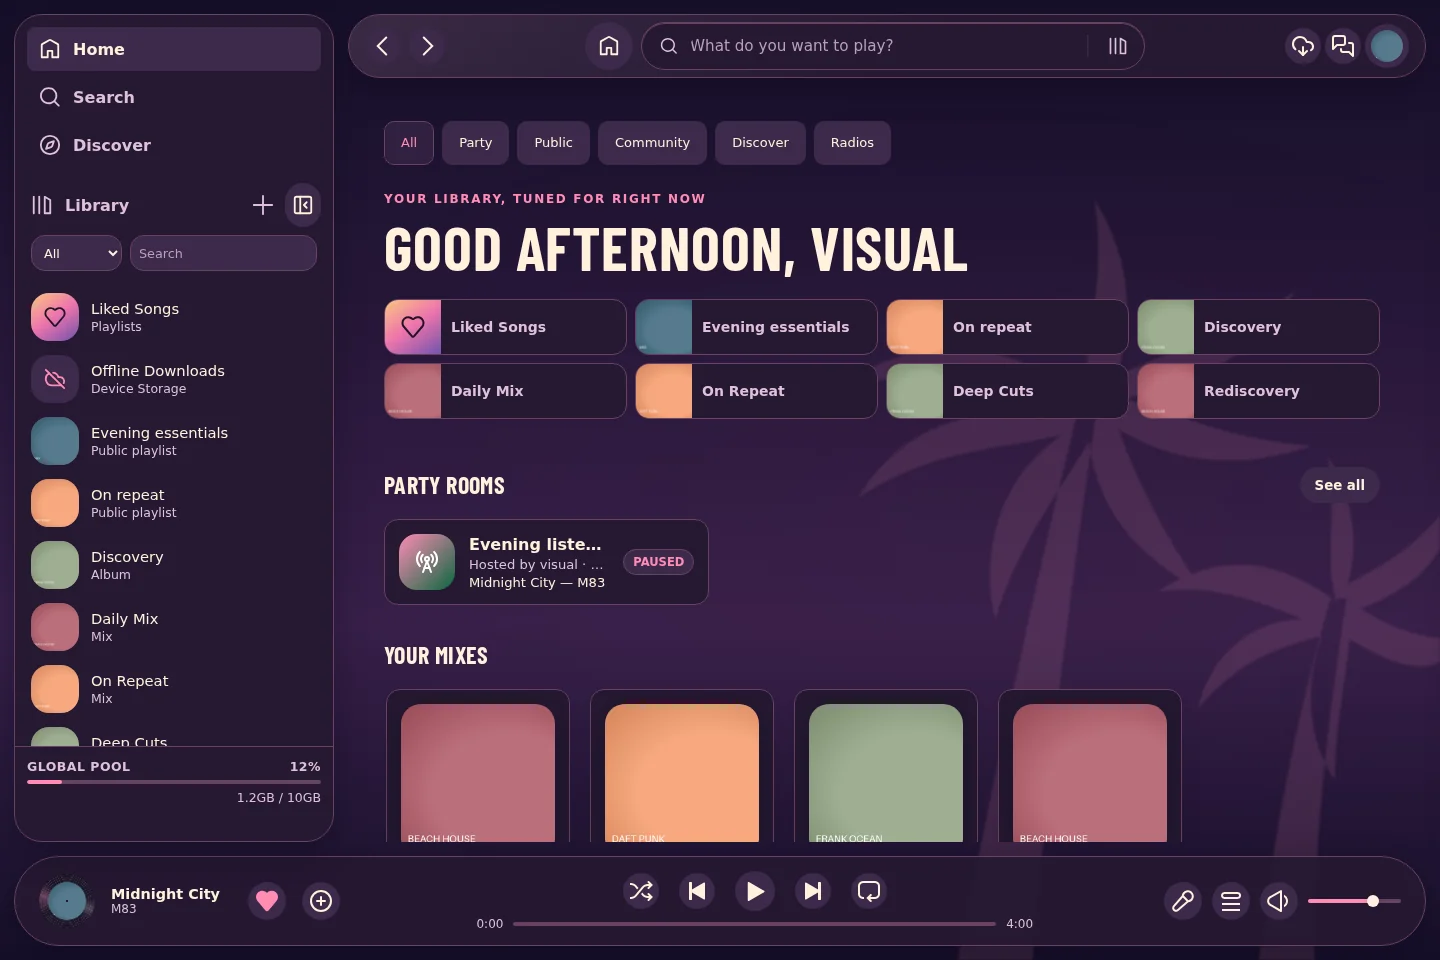
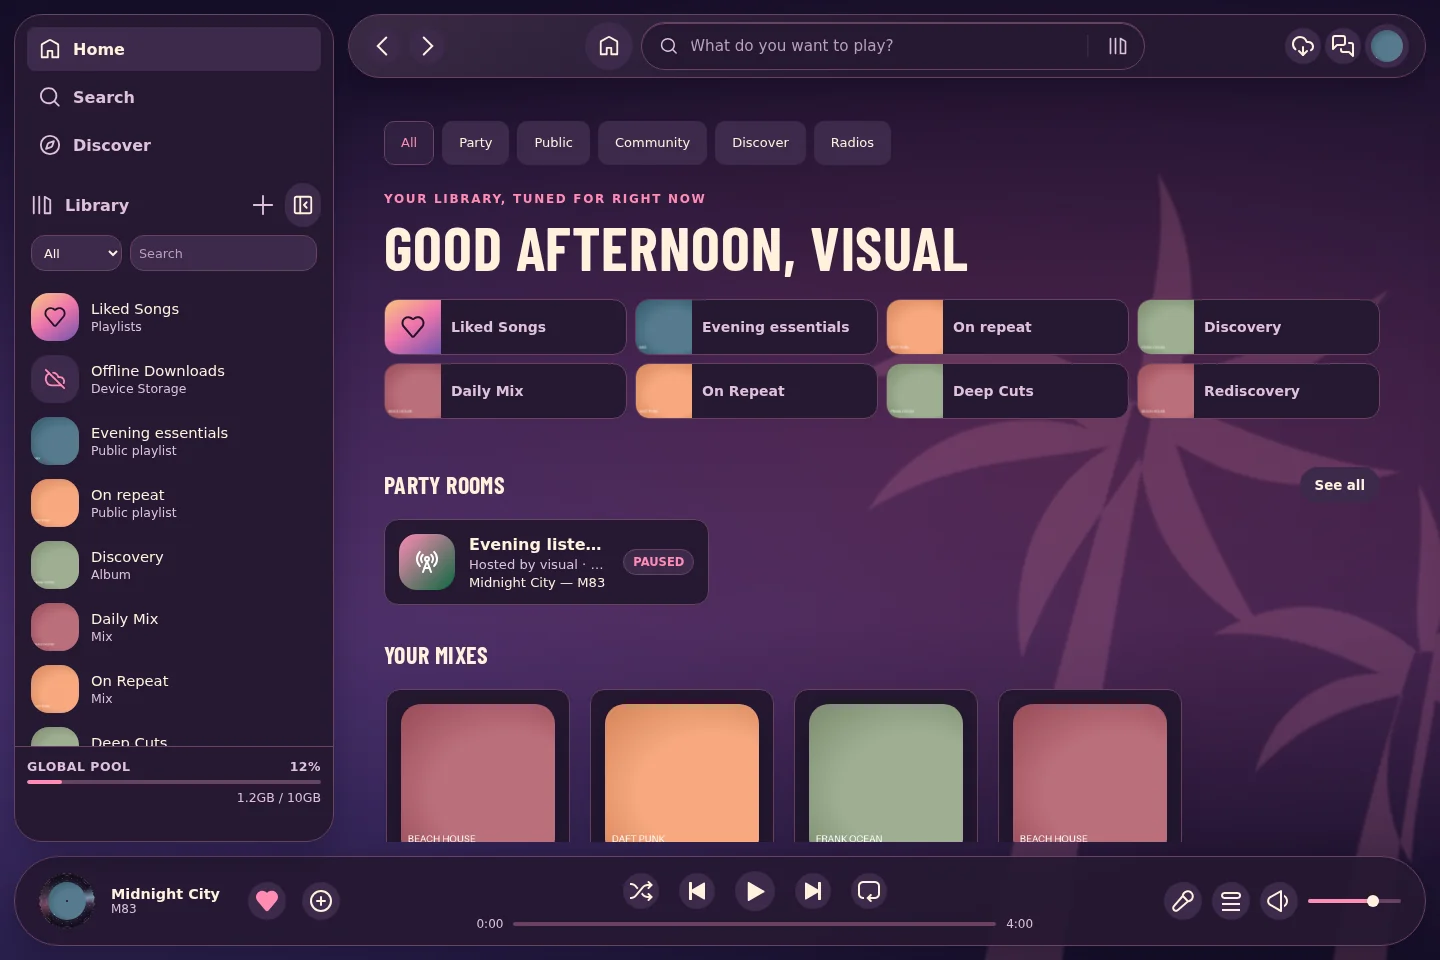
Show the refined Vice player and WebView panels in the gallery

diff --git a/docs/SCREENSHOTS.md b/docs/SCREENSHOTS.md
@@ -2,7 +2,7 @@
 
 [Project overview](../README.md) · [User guide](USER-GUIDE.md) · [Themes](THEMES.md) · [Android](ANDROID.md) · [Downloads](https://github.com/sPROFFEs/Aoede/releases/latest)
 
-Explore the **Aoede 1.3.1** web interface and native Android client. The Android captures use **Android 1.2.12 (42)**. Expand a feature group and click any image to open it at full resolution.
+Explore the **Aoede 1.3.1** web interface and native Android client. The Android captures use **Android 1.2.12**. The Vice Home and player previews show the refinements in **Android 1.2.13**. Expand a feature group and click any image to open it at full resolution.
 
 These are captures of the real application interfaces, with fictional accounts, demonstration artwork, sample track metadata and synthetic service responses. They are not design mockups or screenshots of a production server. Example provider connections, listening totals and host metrics illustrate their screens; they do not describe a live deployment.
 
@@ -89,6 +89,23 @@ Vice is the fourth account theme, inspired by the [official GTA VI visual direct
     <td align="center"><a href="images/screenshots/desktop-vice-active-playlist.webp"><img src="images/screenshots/desktop-vice-active-playlist.webp" alt="Vice playlist with Midnight City highlighted and a vinyl record in the desktop player" width="100%"></a></td>
     <td align="center"><a href="images/screenshots/mobile-vice-active-playlist.webp"><img src="images/screenshots/mobile-vice-active-playlist.webp" alt="Vice playlist with active track and vinyl in the mobile player" width="100%"></a></td>
   </tr>
+</table>
+
+</details>
+
+<details>
+<summary><strong>Lyrics, downloads and deletion requests</strong></summary>
+
+The fullscreen lyrics follow the scene behind the player. Download and request rows sit on a shared rounded sheet.
+
+<table>
+<tr><th width="25%">Lyrics</th><th width="25%">Downloads</th><th width="25%">Deletion request</th><th width="25%">Request responses</th></tr>
+<tr>
+  <td><a href="images/screenshots/mobile-vice-lyrics.webp"><img src="images/screenshots/mobile-vice-lyrics.webp" alt="Mobile web · Vice · Lyrics" width="100%"></a></td>
+  <td><a href="images/screenshots/mobile-vice-downloads.webp"><img src="images/screenshots/mobile-vice-downloads.webp" alt="Mobile web · Vice · Downloads" width="100%"></a></td>
+  <td><a href="images/screenshots/mobile-vice-deletion-request.webp"><img src="images/screenshots/mobile-vice-deletion-request.webp" alt="Mobile web · Vice · Deletion request" width="100%"></a></td>
+  <td><a href="images/screenshots/mobile-vice-deletion-responses.webp"><img src="images/screenshots/mobile-vice-deletion-responses.webp" alt="Mobile web · Vice · Request responses" width="100%"></a></td>
+</tr>
 </table>
 
 </details>

diff --git a/README.md b/README.md
@@ -52,11 +52,11 @@ Each regular account gets its own Navidrome instance, while the shared music poo
 
 ## Screenshots
 
-Click any image for its full resolution. All images come from the real interfaces using fictional accounts, sample library metadata and demonstration artwork. The mobile web screenshots show the responsive site. The native screenshots come from the Android 1.2.12 views rendered in a local test environment.
+Click any image for its full resolution. All images come from the real interfaces using fictional accounts, sample library metadata and demonstration artwork. The mobile web screenshots show the responsive site. The native screenshots show the Android app and its components rendered in a local test environment.
 
 ### Four themes, one account
 
-**Classic** keeps a focused dark layout. **Glass** adds translucent, artwork-aware surfaces. **Vitrine** pairs an Apple Music inspired layout with rose accents and light/dark appearance. **Vice** adds GTA VI inspired sunset colors, palm silhouettes and condensed poster typography. Vice uses a slowly moving skyline and vinyl artwork in the compact and fullscreen players. Your theme preference follows your account between devices. [Theme guide](docs/THEMES.md)
+**Classic** keeps a focused dark layout. **Glass** adds translucent, artwork-aware surfaces. **Vitrine** pairs an Apple Music inspired layout with rose accents and light/dark appearance. **Vice** adds GTA VI inspired sunset colors, palm silhouettes and condensed poster typography. Vice adds a moving skyline with drifting lights and a vinyl record with fine grooves and reflections in both players. Your theme preference follows your account between devices. [Theme guide](docs/THEMES.md)
 
 <table>
   <tr><th width="25%">Classic</th><th width="25%">Glass</th><th width="25%">Vitrine</th><th width="25%">Vice</th></tr>
